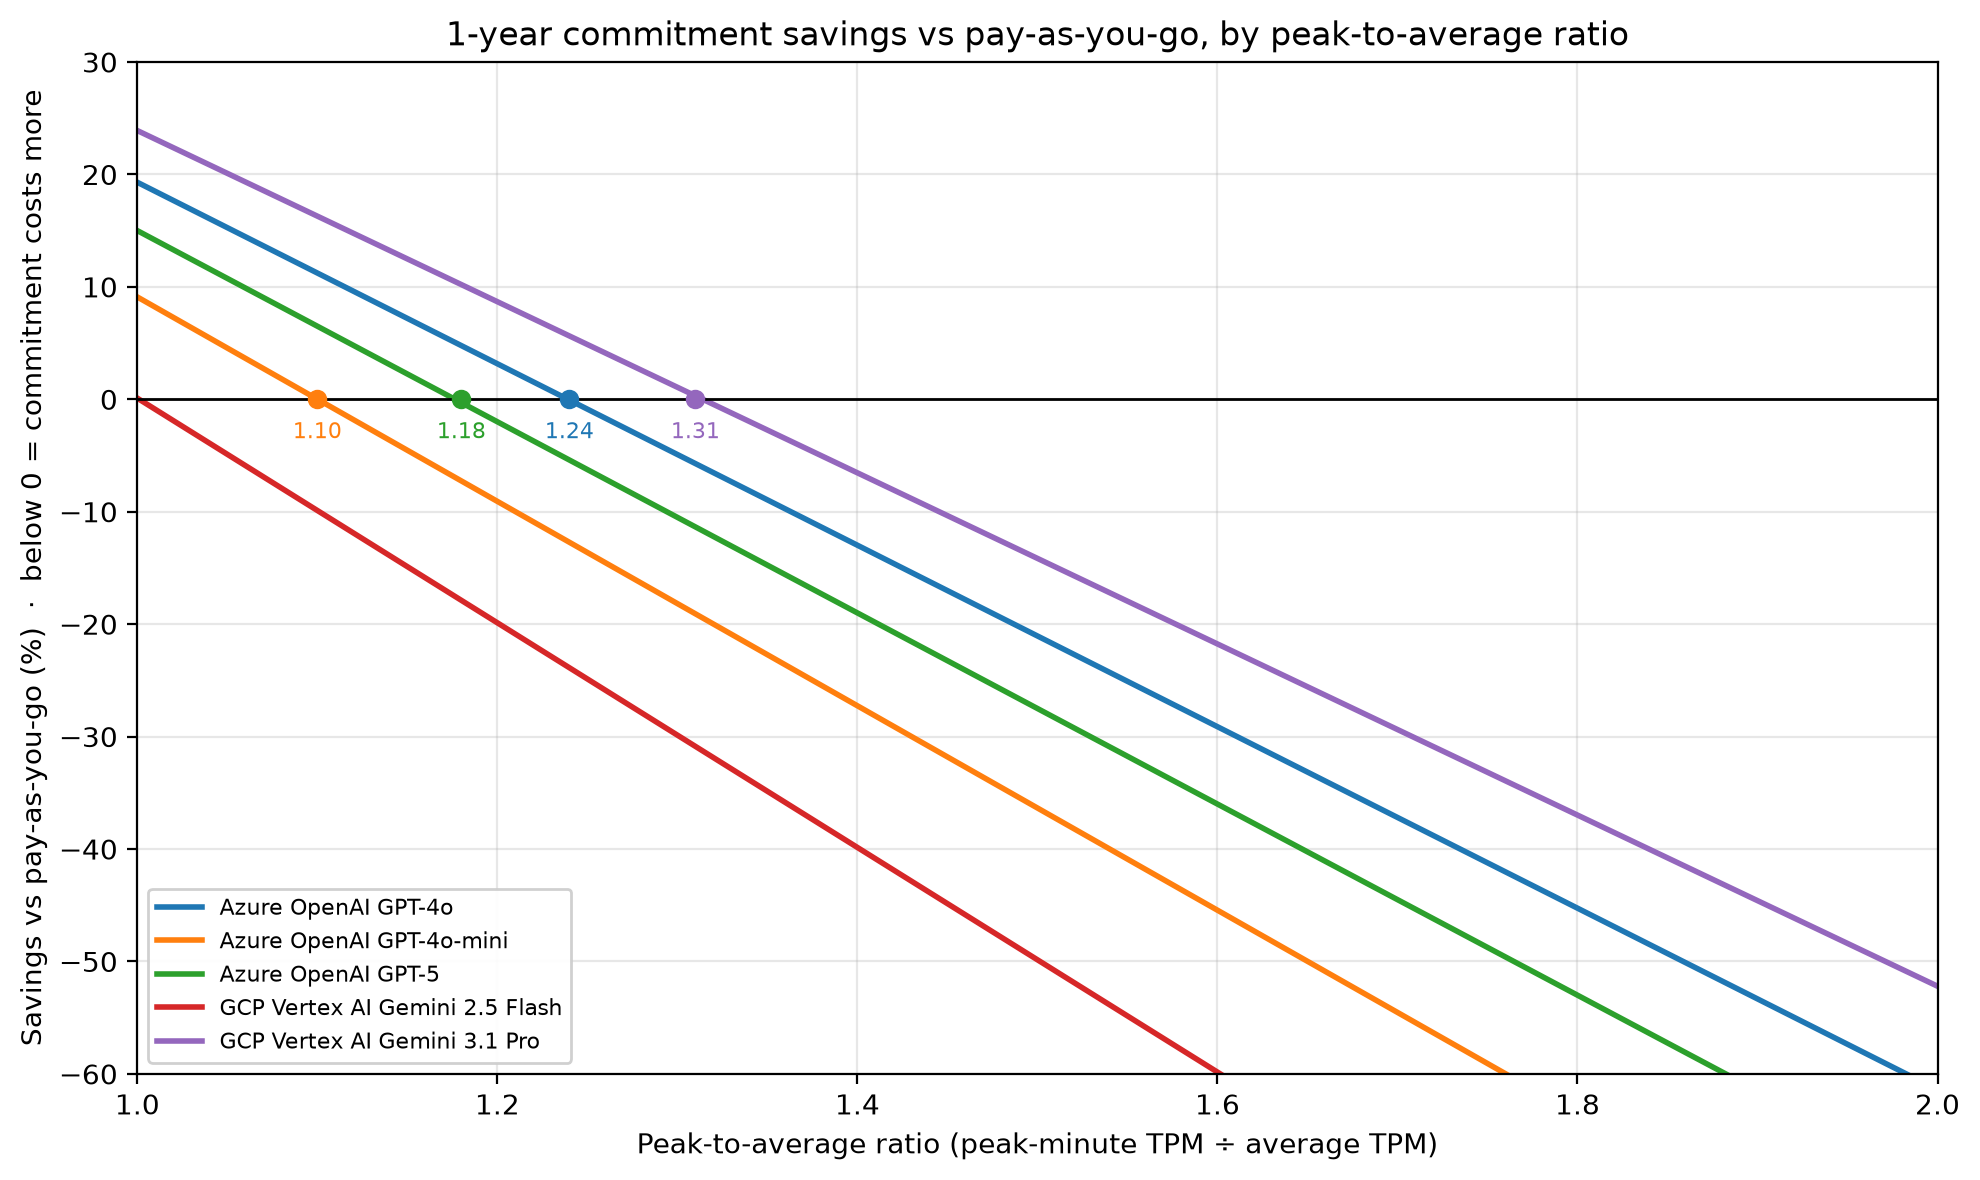
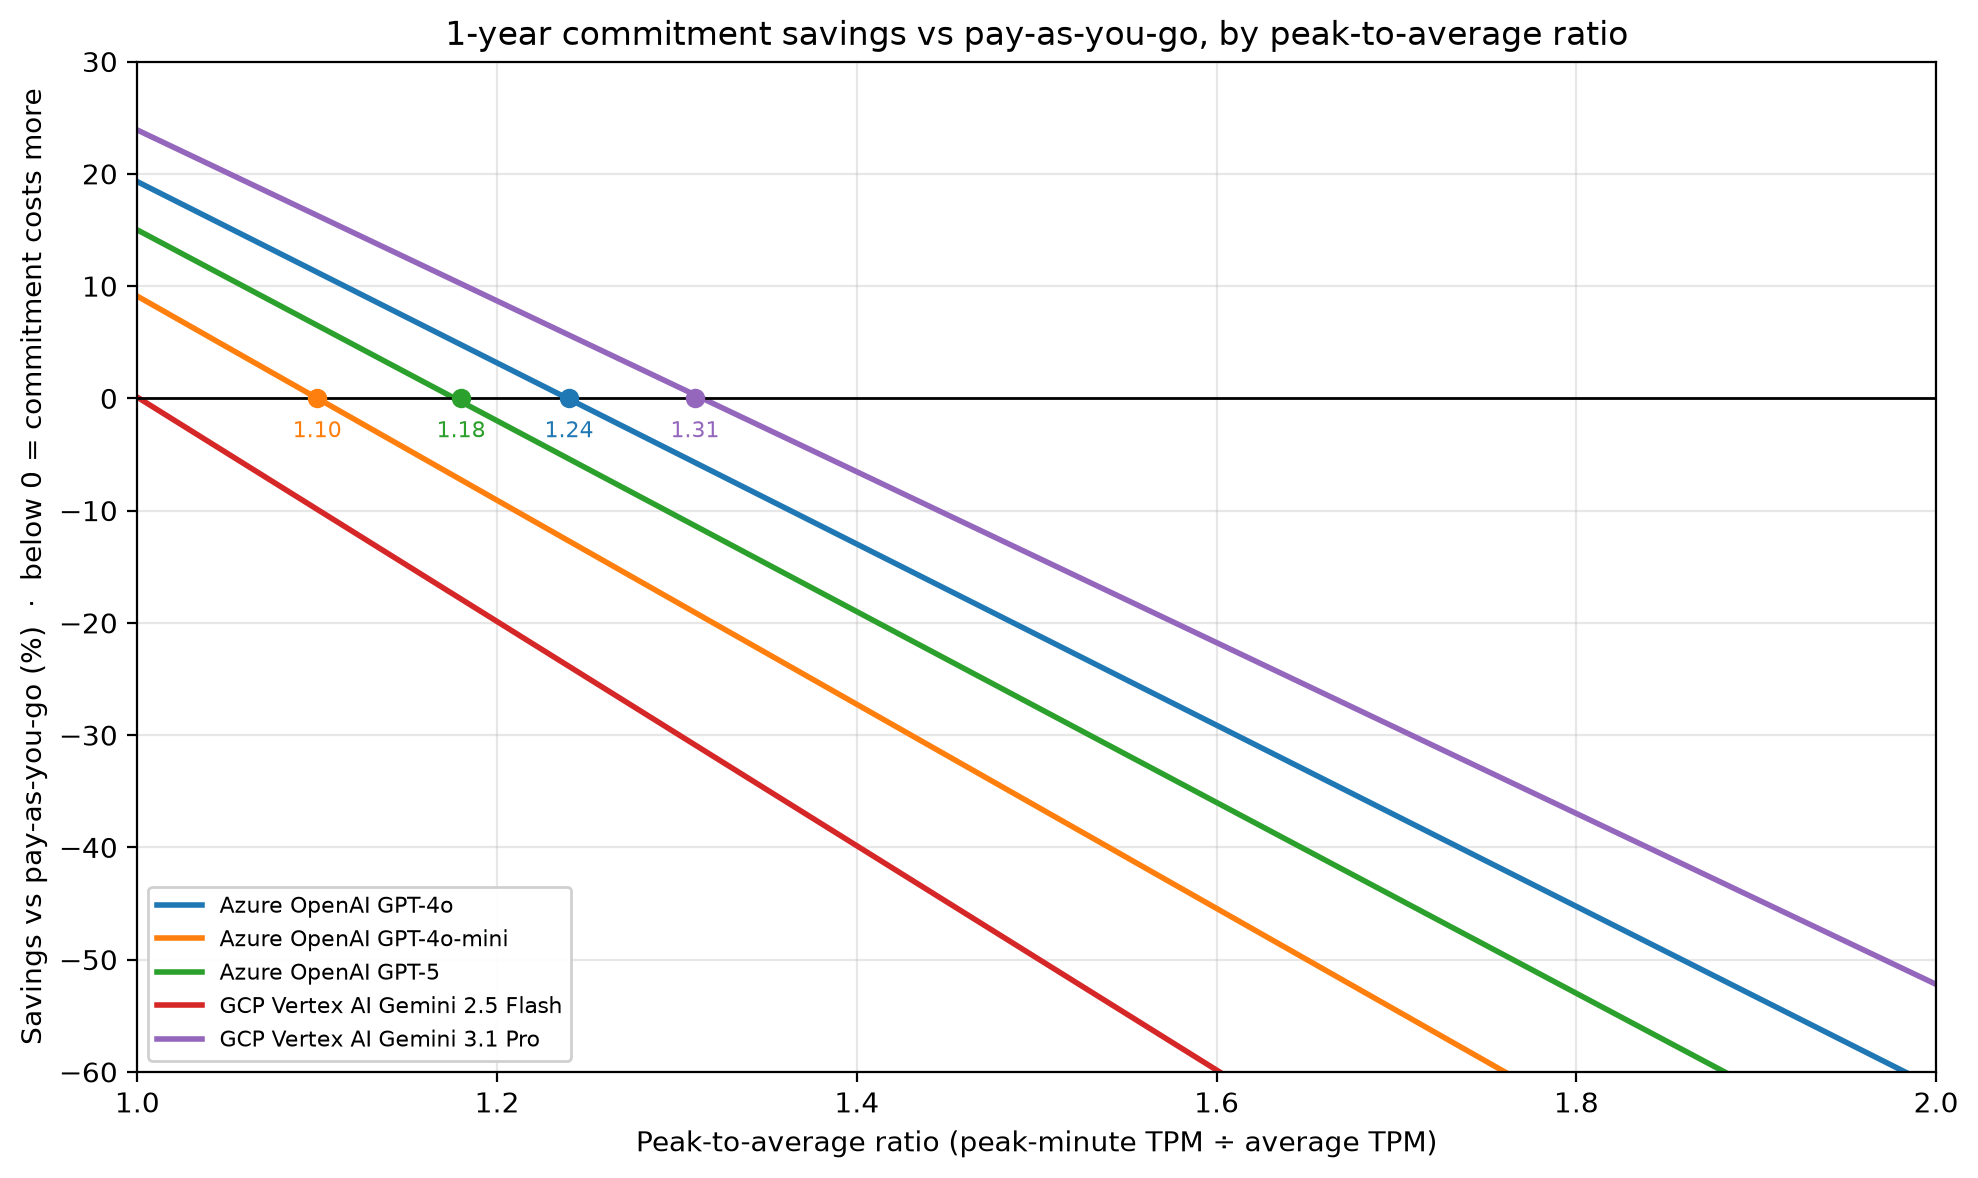
Close sqlite connections, pin the plotting backend, and add an MIT license
`with sqlite3.connect()` only manages the transaction, so connections in 01 and
02 (and 04 via 02) were left open and raised a ResourceWarning; they now use
contextlib.closing, as 03 already does. The saved charts depended on the local
matplotlib backend (macosx vs Agg render at slightly different pixel sizes), so
they changed from machine to machine. The scripts now pin Agg and drop the
Software tag, making output identical under every backend setting. The three
existing charts are regenerated once as a result.

Adds an MIT LICENSE and a README pointer to it.

diff --git a/src/02_breakeven.py b/src/02_breakeven.py
@@ -34,8 +34,12 @@ from __future__ import annotations
 
 import sqlite3
 import sys
+from contextlib import closing
 from pathlib import Path
 
+import matplotlib
+
+matplotlib.use("Agg")  # fixed backend so saved charts don't depend on the local default
 import matplotlib.pyplot as plt
 import numpy as np
 import pandas as pd
@@ -53,7 +57,7 @@ SENSITIVITY_TERMS = ["1-month", "3-month", "1-year"]
 
 
 def load_frames() -> tuple[pd.DataFrame, pd.DataFrame, pd.DataFrame]:
-    with sqlite3.connect(DB_PATH) as conn:
+    with closing(sqlite3.connect(DB_PATH)) as conn:
         payg = pd.read_sql_query(
             """
             SELECT
@@ -201,7 +205,7 @@ def plot(payg: pd.DataFrame, table: pd.DataFrame) -> Path:
     fig.tight_layout()
 
     out = OUTPUTS_DIR / "breakeven_analysis.png"
-    fig.savefig(out, dpi=200, bbox_inches="tight")
+    fig.savefig(out, dpi=200, bbox_inches="tight", metadata={"Software": None})
     plt.close(fig)
     return out
 
@@ -248,7 +252,7 @@ def plot_peak(table: pd.DataFrame) -> Path:
     fig.tight_layout()
 
     out = OUTPUTS_DIR / "peak_to_average.png"
-    fig.savefig(out, dpi=200, bbox_inches="tight")
+    fig.savefig(out, dpi=200, bbox_inches="tight", metadata={"Software": None})
     plt.close(fig)
     return out
 

diff --git a/src/04_hybrid_sizing.py b/src/04_hybrid_sizing.py
@@ -28,6 +28,9 @@ import importlib.util
 import sys
 from pathlib import Path
 
+import matplotlib
+
+matplotlib.use("Agg")  # fixed backend so saved charts don't depend on the local default
 import matplotlib.pyplot as plt
 import numpy as np
 import pandas as pd
@@ -123,7 +126,7 @@ def plot(result: pd.DataFrame, suffix: str) -> Path:
     fig.suptitle("Hybrid sizing: how much to commit depends on the load shape")
     fig.tight_layout()
     out = OUTPUTS_DIR / f"hybrid_sizing{suffix}.png"
-    fig.savefig(out, dpi=200, bbox_inches="tight")
+    fig.savefig(out, dpi=200, bbox_inches="tight", metadata={"Software": None})
     plt.close(fig)
     return out
 

diff --git a/src/01_load_pricing.py b/src/01_load_pricing.py
@@ -1,3 +1,4 @@
+from contextlib import closing
 from pathlib import Path
 import sqlite3
 import sys
@@ -81,7 +82,7 @@ def create_schema(conn: sqlite3.Connection) -> None:
 
 
 def load_seed() -> None:
-    with sqlite3.connect(DB_PATH) as conn:
+    with closing(sqlite3.connect(DB_PATH)) as conn:
         create_schema(conn)
         with open(SEED_PATH, encoding="utf-8") as f:
             conn.executescript(f.read())

diff --git a/README.md b/README.md
@@ -181,3 +181,7 @@ This lab is deliberately built with an **AI-assisted, human-owned** workflow: I 
 I'm a FinOps and cloud cost-optimization practitioner focused on the emerging discipline of **AI cost governance** — bringing the accountability, commitment planning, and anomaly detection that matured on traditional cloud spend to LLM and AI infrastructure.
 
 🔗 [linkedin.com/in/tsweetz](https://www.linkedin.com/in/tsweetz)
+
+## License
+
+MIT. See [LICENSE](LICENSE).
